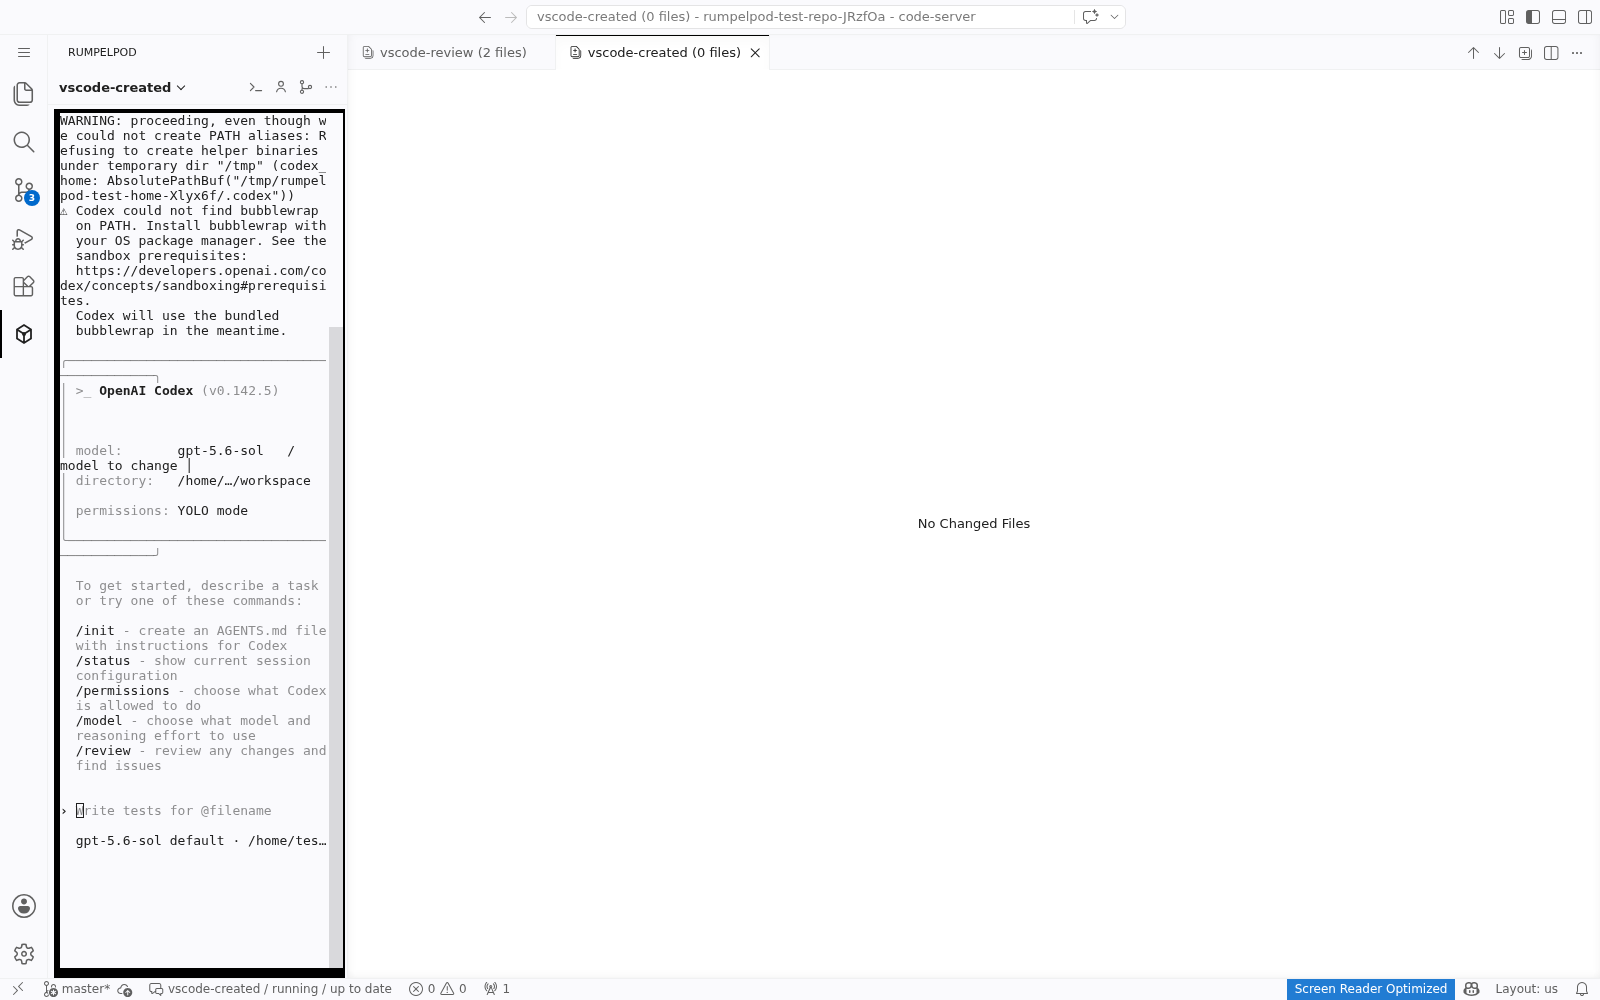
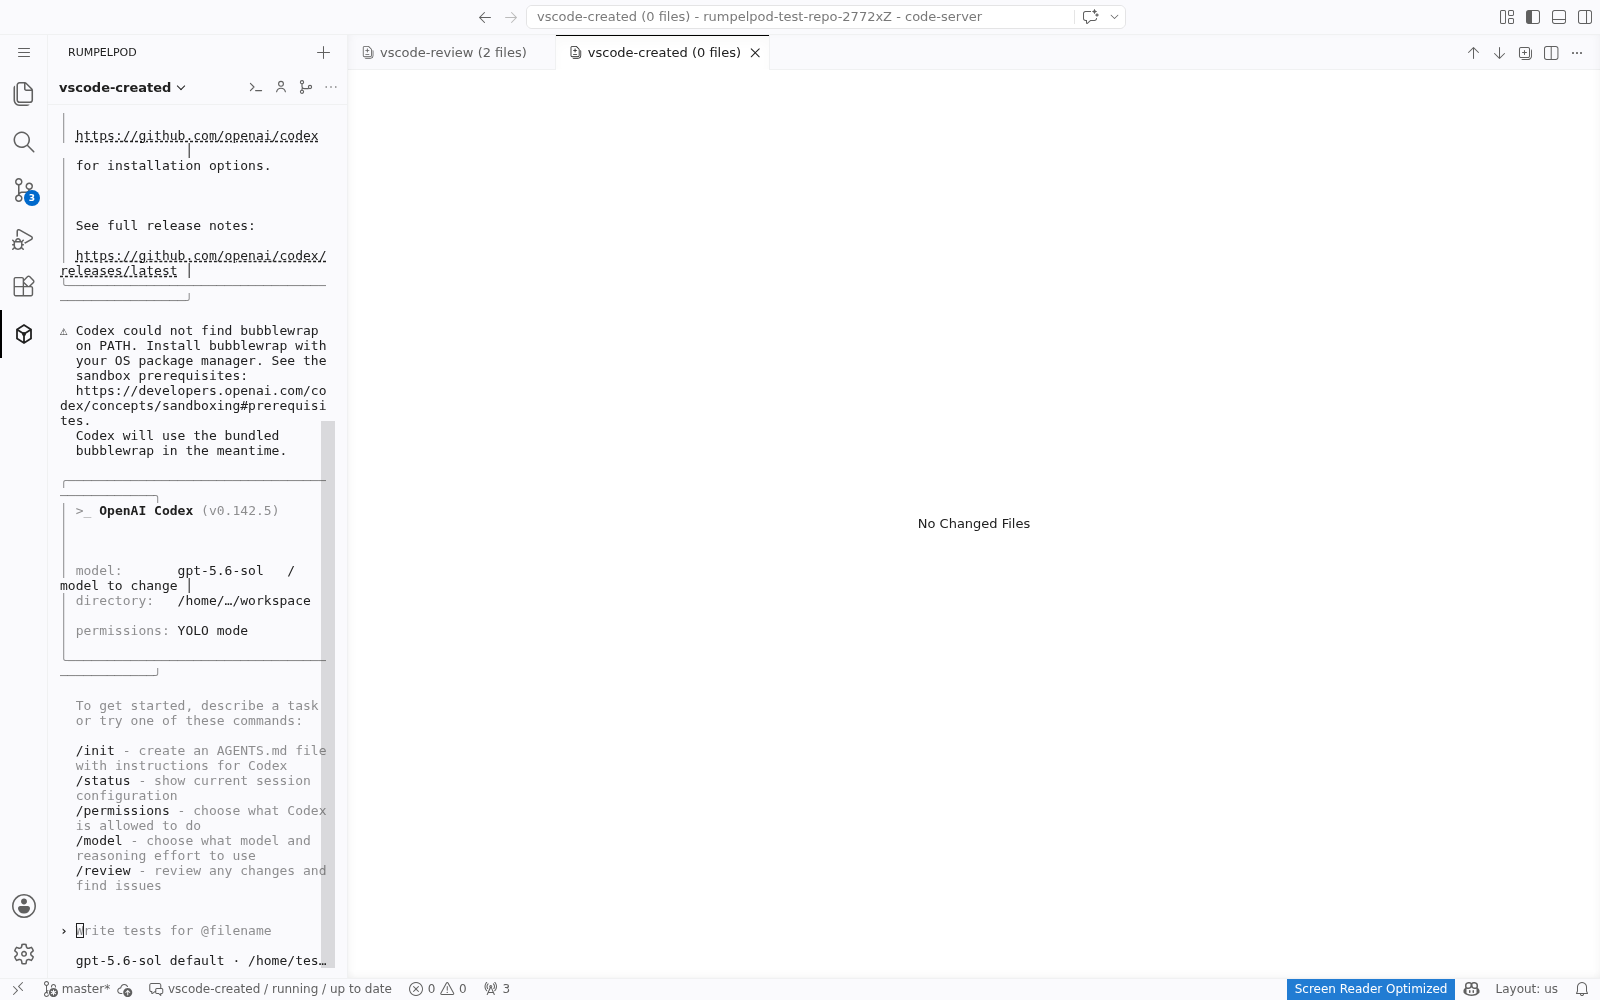
Match embedded terminals to VS Code

Changed region(s): [[0.0312, 0.093, 0.2188, 0.992], [0.5312, 0.0, 0.5938, 0.031]]

diff --git a/vscode/src/webview.css b/vscode/src/webview.css
@@ -160,14 +160,19 @@ body {
 }
 
 .terminal {
+  box-sizing: border-box;
   flex: 1;
   min-height: 0;
   min-width: 0;
-  padding: 4px 2px 2px 6px;
+  padding: 4px 6px;
 }
 
 .terminal .xterm {
   height: 100%;
+}
+
+.terminal .xterm-viewport {
+  background-color: var(--vscode-sideBar-background);
 }
 
 .empty {
